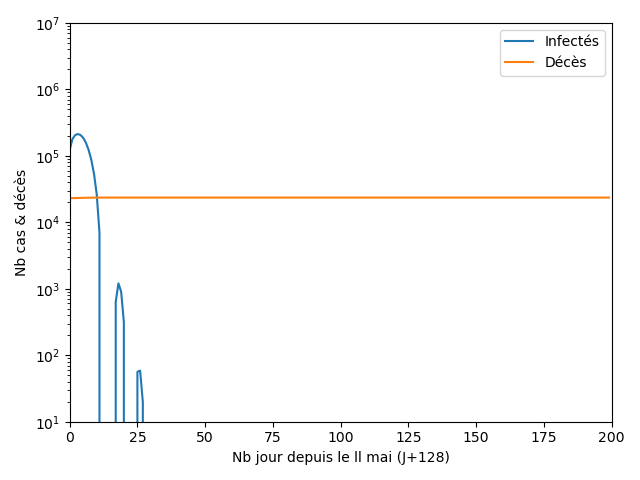
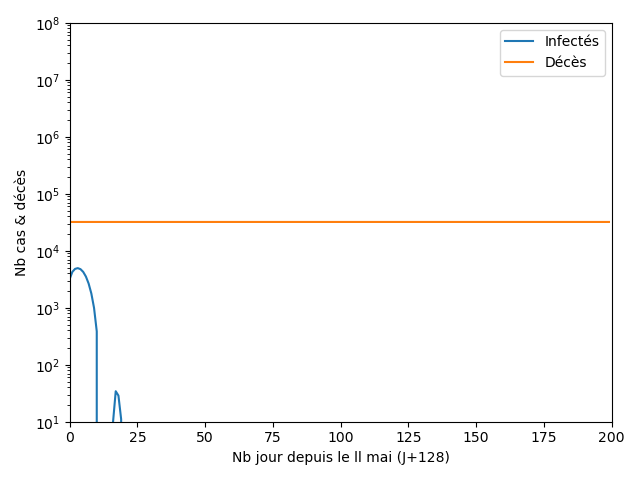
Scenario allemand

diff --git a/scire.py b/scire.py
@@ -95,8 +95,8 @@ if __name__ == '__main__':
     notdetectedrate = 4
     lmbda = 15 # Durée d'infection contagieuse
     v = 2 # Durée incubation non contagieux
-    R0 = 3.3
-    beta  = R0 / lmbda
+    r0 = 3.3
+    beta  = r0 / lmbda
     print(beta)
     mu = 0.005 # Taux mortalité
 
@@ -136,18 +136,15 @@ if __name__ == '__main__':
     DC128 = 23000+9000
     R128 = 800000
     rrate = 0.5 # 0.1 0.5 0.9
-    r128 = 0.5 #0.5
-    C0 = ((DC128 / mu) - R128) / nbfrench * rrate
-    I0 = C0 * rrate
-    S0 = 1 - I0 - C0
-    r0 = R0 * r128 * rrate
-    fsamort = 2 #2,3,4
-    R0D = R0 - R0 / fsamort
-    fsummer = lambda x : -np.sin((x + 118 - 365 / 4 - 30) * 2 * np.pi / 365) * R0 / fsamort
+    r128 = 0.5
+    C128 = (DC128 / notdetectedrate) / nbfrench
+    I128 = C128/7
+    S128 = 1 - I128 - C128
+    fsamort = 4 #1 2 4
+    fsummer = lambda x : -np.sin((x + 118 - 365 / 4 - 30) * 2 * np.pi / 365) * r0 / fsamort
     print(fsummer(np.arange(365)))
-    scire = SCIRE(S0, C0, I0, r0=R0D, v=v, lmbda=lmbda, mu=mu, dr=0, fs = fsummer) #0.1 0 -0.1
+    scire = SCIRE(S128, C128, I128, r0=r128, v=v, lmbda=lmbda, mu=mu, dr=-0.2, fs = fsummer) #0.1 #0 -0.3
     scires = scire.compute(200)
-    ctot = 1 - np.array([x.S for x in scires])
     i = np.array([x.I for x in scires])
     dc = np.array([x.DC for x in scires]) + DC128 / nbfrench
     plt.plot(i * nbfrench, label="Infectés")

diff --git a/readme.md b/readme.md
@@ -9,38 +9,35 @@
 <p>J'ai également programmé en Python le modèle SCIRE+ à l'aide du framework NumPy (Sain-Contaminé-Infecté-Rétablie-Etendue) avec des améliorations en modulant le facteur beta d'après https://interstices.info/modeliser-la-propagation-dune-epidemie
 <img src="data/scir.png"><img src="https://scikit-learn.org/stable/_static/scikit-learn-logo-small.png"><img src="https://numpy.org/_static/numpy_logo.png"><img src="https://www.python.org/static/img/python-logo@2x.png">
 <h2>Etude 3: Le déconfinement</h2>
+<p>Etude démarrée au 24/4. MAJ le 28/4 avec plan de déconfinement et les donéne inquiétante de l'alemagne où le R est passé de 0.7 à 1 en 2 semaines. En France le R est à 0.5.</p>
 <p>Au déconfinement, le 11 mai (J128), je propose 4 scénarios, pour cela j'ai modifié SCIRE pour ajouter un taux de détection des individus infectés et une fonction d'atténuation sinusoidale dûe à l'été R = R * DetectionRate * sin(2xpi/365)
-<p>Scénario Marseillais optimiste: Comme le SRAS et comme le propose le professeur Raoult, le virus disparait, R = R0 * 0.5 * 0.1 - fsin(t) ~= [0..0.4]
+<p>Scénario Marseillais optimiste: Comme le SRAS et comme le propose le professeur Raoult, le virus disparait, R = 0.5 - fsin(t) ~= [0..2.1]
     <ul>
-        <li>Le modèle SCIRE prévoit une extinction du virus début Juin avec une baisse par vaguelette</li>
-        <li>Le modèle ML prévoit un extinction en Mai</li>
+        <li>Les modèles prédisent une disparition du virus fin Mai</li>
         <li>+1000 décès</li>
     </ul>
     <img src="data/figured1.png">
-<p>Scénario Start & Go pessimiste: le confinement est un échec, R=R0
+<p>Scénario Start & Go pessimiste: le déconfinement est un échec, R=R0
     <ul>
-        <li>Un énorme pic d'infection à J+50</li>
-        <li>Reconfinement</li>
+        <li>Un 2ème pic et reconfinement à J+50 pour le modèle SCIRE, J+20 pour ML</li>
+        <li>Doublement des décès</li>
     </ul>
     <img src="data/figured2.png"><img src="data/figureml.png">
-<p>Scénario Grenoblois médian: les mesures de protection fonctionnent avec 50% de détection, isolement des patients infectés, protections, un été protecteur, R = R0 * 0.5 * 0.5 - fsin(t) / 2 ~= [0.4:0.8]
+<p>Scénario Allemand médian: les mesures de protection fonctionnent, remontée du R de 0.3 en 15 jours, un été protecteur, R = 0.5 + 0.3t - fsin(t) / 2 ~= [0:3.3]
     <ul>
-        <li>Une baisse rapide du virus sur 1 mois</li>
-        <li>Un petit rebond fin Juin</li>
-        <li>+4000 décès</li>
+        <li>Le virus dispait en 50 jours</li>
+        <li>Le modèle plante pour la rentrée</li>
+        <li>+1000 décès</li>
     </ul>
     <img src="data/figured3.png">
-<p>Scénario Parisien médian-pessimiste : les mesures de détection fonctionnent moyennement, seulement 50% des symptomatiques sont détectés soit 10% de détection totale, l'été fait son travail, baisse du R de 0.05 tous les 15 jours, R = R0 * 0.5 * 0.9 - fsin(t) / 4 ~= [1.6:2.2]
+<p>Scénario Grenoblois médian : les mesures de détection fonctionnent moyennement, remontée du R de 0.2 en 15 jours, l'été n'ai pas aussi protecteur qu'espéré, R = 0.5 + 0.2t * fsin(t) / 4 ~= [0.2:3.3]
     <ul>
-        <li>Très incertain en fonction du paramètre de saisonnalité</li>
-        <li>Un gros pric à J+15 à la limite du confinement et une baisse sur 75 à 100 jours</li>
-        <li>doublement des décès</li>
-        <li>Présence d'un pic à l'automne si l'été n'est pas assez protecteur</li>
+        <li>L'été se passe à l'identique du confinement</li>
+        <li>Reconfinement à la rentrée</li>
+        <li>+ 20000 décès avant reconfinement </li>
     </ul>
-Ci dessous les 3 modélisations où l'amortissement de l'été est d'un facteur de 1/2, 1/3, 1/4
-<img src="data/figured4.png"><img src="data/figured42.png"><img src="data/figured43.png">
-<p>La moindre variation du paramètre R peut complètement modifier l'évolution de l'épidémie, le ML ne possède pas assez données pour être fiable, il faut donc rester modeste</p>
-<p>Conclusion: les modèles sont très incertains, une boule de cristal ferait aussi bien, en mai un petit pic va avoir lieu mais avec un peu de chance l'épidémie va refluer si les moyens de détection fonctionnent et sont massifs, sinon elle repartira, le risque de 2ème vague à l'automne est présent mais peu quantifiable.</p>
+<img src="data/figured4.png">
+<p>Conclusion: Si R repasse au dessus de 1, un second pic sera inévitable</p>
 <p>Comme le montre le sud de la France et l'Afrique, les temps ensoleillés, secs et chauds semblent diminuer fortement R, donc il faut être optimiste</p>
 
 <h2>Etude 2 : Le confinement</h2>
